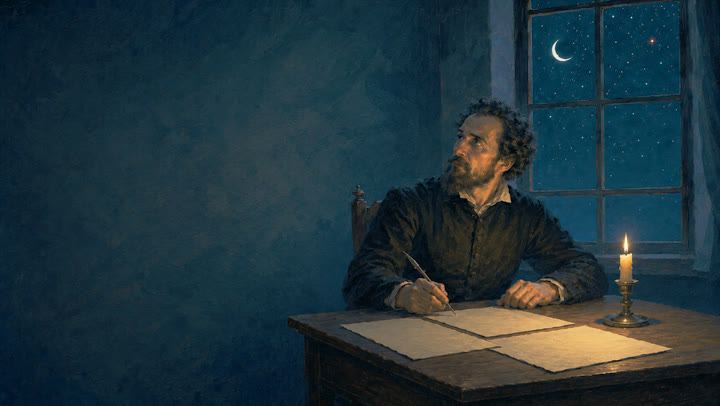
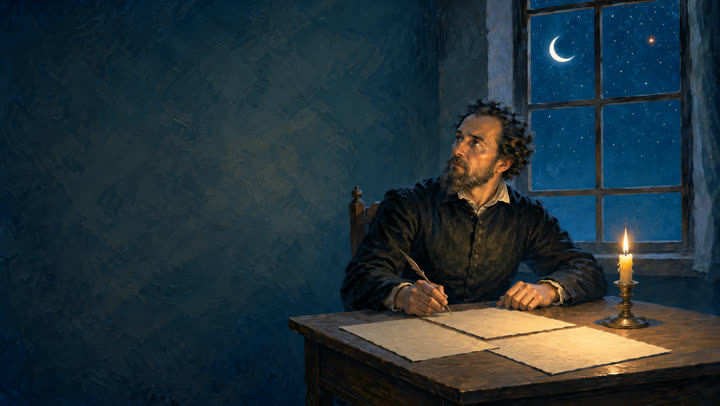
Skarpa omslag: nya i 1672 px för spelare och kort
Omslagen fanns bara i 720 px och blev suddiga som affisch i spelaren. Alla sex är
målade om i ChatGPT-projektet "Skapa bilder till matematikvideos" ur de gamla, med
samma komposition (assets/omslag/<id>.png). bygg.mjs bakar dem till kortet (720 px)
och till spelarens affisch (omslagStor, 1672 px).

diff --git a/public/index.html b/public/index.html
@@ -928,7 +928,8 @@
   // YouTubes egna undertexter av — sidan ritar sina egna ur tal.srt.
   function stangYtText() { if (yt && yt.unloadModule) { try { yt.unloadModule("captions"); yt.unloadModule("cc"); } catch (e) {} } }
   function byggDuk(v) {
-    const bild = v.omslagRen || v.omslag;
+    // Affischen i spelaren: omslaget i hög upplösning när det finns (720 px blev suddigt).
+    const bild = v.omslagStor || v.omslagRen || v.omslag;
     dukEl.innerHTML = `
       <div class="halla"></div>
       <div class="bild" style="${bild ? `background-image:url('${bild}')` : ""}"></div>
